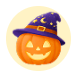
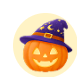
fix(gift_bag): 适配万圣节福袋已领新样式；修复好友图标 57px 被过滤
- 好友列表的南瓜徽章在控件树里是 57x57（常规款 43x43），原先 40~50px 的
  宽度过滤把它全部筛掉，扫描永远「0 个图标」——放宽到 40~70、x 760..840、
  y>900（排除顶栏同尺寸图标），图标模板按真实节点 bounds ±17 重新裁。
- 已领取样式从「光南瓜」改成「帽子倒在旁边」，新增
  home_bag_open_pumpkin_hat.png；旧的两种模板都保留。
- 模板带房间背景、跨房间分数会掉（1.00→0.77），补一套紫色房间的未领
  模板 home_bag_tied_pumpkin2.png，同一状态多房间取最高分。

diff --git a/scenarios/gift_bag.py b/scenarios/gift_bag.py
@@ -16,10 +16,14 @@
 #  但**不能复用好友家的模板**——跨素材 + 通道错位会误判（实测把敞口判成"可领" 0.679）。
 #
 # 限时皮肤（2026-10 万圣节）：官方把福袋换成了「戴巫婆帽的南瓜」——
-#  未领 = 南瓜 + 紫色巫婆帽 + 四周光芒；已领 = 帽子消失、只剩发光南瓜。
-#  这是限时的，活动结束后米黄袋子还会回来，所以**两套模板都保留**（列表里逐个匹配取最高分），
-#  不要用新模板覆盖旧文件。素材：scenarios/assets/home_bag_{tied,open}_pumpkin.png，
-#  好友列表的「有福袋」徽章同理新增 friend_icon_bag_pumpkin.png（同位置 43x43、77x77 外扩）。
+#  未领 = 南瓜 + 紫色巫婆帽 + 四周光芒；已领 = 帽子消失只剩发光南瓜（10-30 版），
+#  10-31 起又变成**帽子倒在旁边**（用户截图确认），所以已领态两种模板都留着。
+#  这是限时的，活动结束后米黄袋子还会回来，所以**多套模板全部保留**（列表里逐个匹配
+#  取最高分），不要用新模板覆盖旧文件。素材：home_bag_{tied,open}_pumpkin*.png，
+#  好友列表的「有福袋」徽章同理新增 friend_icon_bag_pumpkin.png（同位置，节点 57x57、
+#  按 ±17 外扩裁 77x77）。
+#  ⚠ 模板带房间背景，跨房间分数会掉（实测同一张袋在紫色房间里 0.77、原来的木地板房间
+#  1.00）——所以同一个状态存了不同房间的两套，取最高分；新增模板时优先用暖色地板/房间截图。
 #
 # !! 模板通道：`screenshot()` 返回 **RGB**，而 `cv2.imread` 读回来是 **BGR**，
 #    偏偏 cv2.matchTemplate 是逐通道比对的 —— 通道错位会让分数虚低。新模板一律用
@@ -63,7 +67,8 @@ HOME_BAG_MIN_SCORE = 0.70
 HOME_BAG_MARGIN = 0.05
 
 # 好友列表里的「有可领福袋」图标（用户指出的判据）：位置固定、无 content-desc。
-# 实测 bounds 是 43x43、x=789..832（1080 基准），y 就是好友行；
+# 常规款 bounds 是 43x43、x=789..832；2026-10 万圣节南瓜徽章是 57x57、x=782..839
+# （1080 基准，中心同为 x≈810），y 就是好友行——所以节点宽度过滤要覆盖 40~70。
 # 模板裁的是 bounds 上下左右各外扩 17px 的 77x77，所以这里必须用同样的外扩量裁图。
 # 判定：福袋图标分（自匹配 0.99~1.00）要 >= 下限且高于另一个图标（粉爱心魔法棒，约 0.51）。
 FRIEND_ICON_PAD = 17
@@ -99,9 +104,11 @@ class GiftBagScenario(VisitScenario):
         # （限时皮肤结束后旧模板继续有效，新模板也不碍事）。
         # 必须按 RGB 读：screenshot() 是 RGB，而 cv2.imread 返回 BGR，通道错位会拉低分数。
         self._tpl_tied = self._load_tpls(
-            'home_bag_tied.png', 'home_bag_tied_pumpkin.png')
+            'home_bag_tied.png', 'home_bag_tied_pumpkin.png',
+            'home_bag_tied_pumpkin2.png')
         self._tpl_open = self._load_tpls(
-            'home_bag_open.png', 'home_bag_open_pumpkin.png')
+            'home_bag_open.png', 'home_bag_open_pumpkin.png',
+            'home_bag_open_pumpkin_hat.png')
         self._tpl_home_tied = self._tpl_tied
         self._tpl_home_open = self._tpl_open
         # 好友列表里的「有福袋」图标模板：用来筛出该去哪几家（见 scan_friend_list）
@@ -294,7 +301,11 @@ class GiftBagScenario(VisitScenario):
             desc = d.group(1) if d else ''
             if desc == '访问':
                 visits.append((x1, y1, x2, y2))
-            elif 'ImageView' in node and 40 <= x2 - x1 <= 50 and 780 <= x1 <= 840:
+            # 常规款图标节点是 43x43（x=789..832）；2026-10 万圣节南瓜徽章是
+            # **57x57**（实测 (782,2074)-(839,2131)），宽度上限必须放宽到 70，
+            # 否则新版图标一粒都进不来（真机实测：收紧到 50 时永远"0 个图标"）。
+            elif ('ImageView' in node and 40 <= x2 - x1 <= 70 and 760 <= x1 <= 840
+                  and y1 > 900):        # y>900：只收好友行区域，别把顶栏的 57px 图标算进来
                 icons.append((x1, y1, x2, y2))
         log(f'福袋: 好友列表 {len(icons)} 个图标 / {len(visits)} 个访问按钮')
         tgt_h, tgt_w = self._tpl_friend_bag[0].shape[:2]

diff --git a/AGENTS.md b/AGENTS.md
@@ -324,16 +324,21 @@ $PY -m pytest                    # 单元测试（tests/，依赖见 requirement
   判据是**袋子自己的两态图标**（用户指出）——未领 = 袋口收拢 + 橙绳结（周围有星星闪光）、
   已领 = 袋口外翻；模板 `scenarios/assets/home_bag_{tied,open}.png`，走 `home_bag_*` 那套。
   **限时皮肤**（2026-10 万圣节）：官方把福袋换成「戴巫婆帽的南瓜」——未领 = 南瓜+帽子+光芒、
-  已领 = 帽子消失只剩发光南瓜。新增 `home_bag_{tied,open}_pumpkin.png`，与常规款**两套模板
-  都保留、逐个匹配取最高分**（活动结束米黄袋子回来照常可用，不要用新模板覆盖旧文件；
-  实测南瓜款自匹配 1.00 / 另一态 0.55~0.58，常规款对南瓜款只有 0.35~0.41）。
+  已领先是一颗发光南瓜，**10-31 起又改成「帽子倒在旁边」**（用户截图确认）。已领两种样式
+  都留模板：`home_bag_open_pumpkin.png`（光南瓜）+ `home_bag_open_pumpkin_hat.png`（帽倒旁边）；
+  未领另存了两套不同房间的截图（`home_bag_tied_pumpkin.png` 木地板房 / `..._pumpkin2.png`
+  紫色魔法塔）——模板带房间背景，**跨房间分数会掉**（同一袋 1.00 → 0.77），多房间各存一套
+  取最高分才稳。常规米黄袋子模板全部保留，活动结束后照常可用。
+  实测：自家/好友家的袋都按同一套模板走，另一态 0.44~0.52，无袋房间 0.31~0.41。
   一个人一个周期只能领一次（再点只弹面板不给钱），所以每次都调无副作用；已领就跳过、
   **不弹面板**——顺带兼容游戏里「下次直接领取，不自动展开福袋详情」那个勾选项。
 
   **好友家**：先点右侧「好友」开列表，**按行扫图标**挑出该去哪几家（用户指出的判据，见
-  `scan_friend_list()`）——有可领福袋的行在 x=789..832 带一个 43x43 图标（**无 content-desc**，
+  `scan_friend_list()`）——有可领福袋的行在 x≈782..839 带一个图标（**无 content-desc**，
+  节点尺寸：常规款 43x43、万圣南瓜徽章 **57x57**——宽度过滤必须放到 40~70，收紧到 50 会
+  一粒都收不到，真机实测过；按节点 ±17 外扩裁 77x77 模板）。
   只能模板匹配：`friend_icon_bag.png` 黄袋子+爪印 = 有福袋（限时款 `friend_icon_bag_pumpkin.png`
-  南瓜+巫婆帽，同样两套取最高分），`friend_icon_other.png` 粉爱心
+  南瓜+巫婆帽，同样多套取最高分），`friend_icon_other.png` 粉爱心
   魔法棒 = 不是）；同行右侧 `desc='访问'` 按 y 配对，**只访问这几家**（实测 9 家里常常只有
   1~2 家真有），挑不出来（模板缺失/列表打不开）才退回"遍历好友轮播"的老路子（要求好友都
   排在轮播前几位，**遇到非好友**（右上角"加好友"文字区 OCR）**即刻结束本轮**）。
